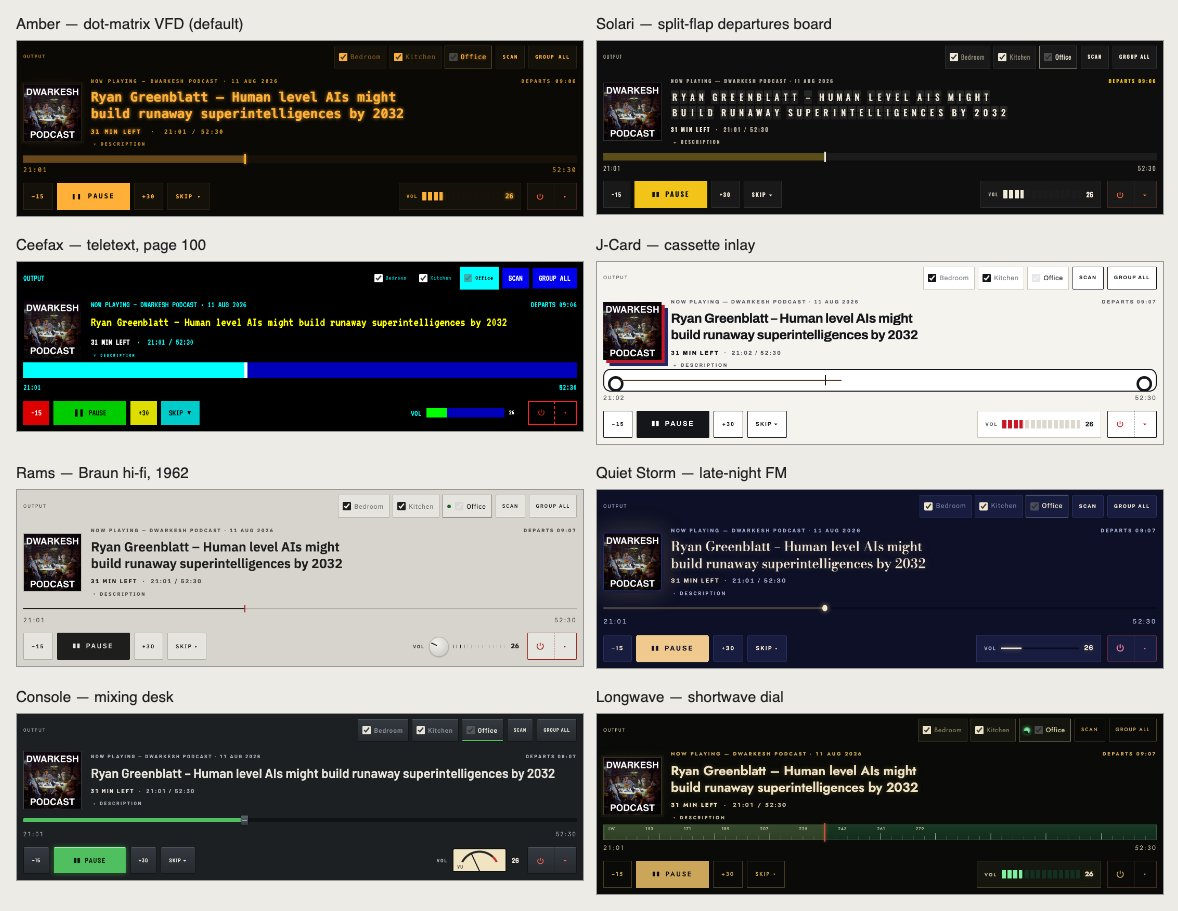
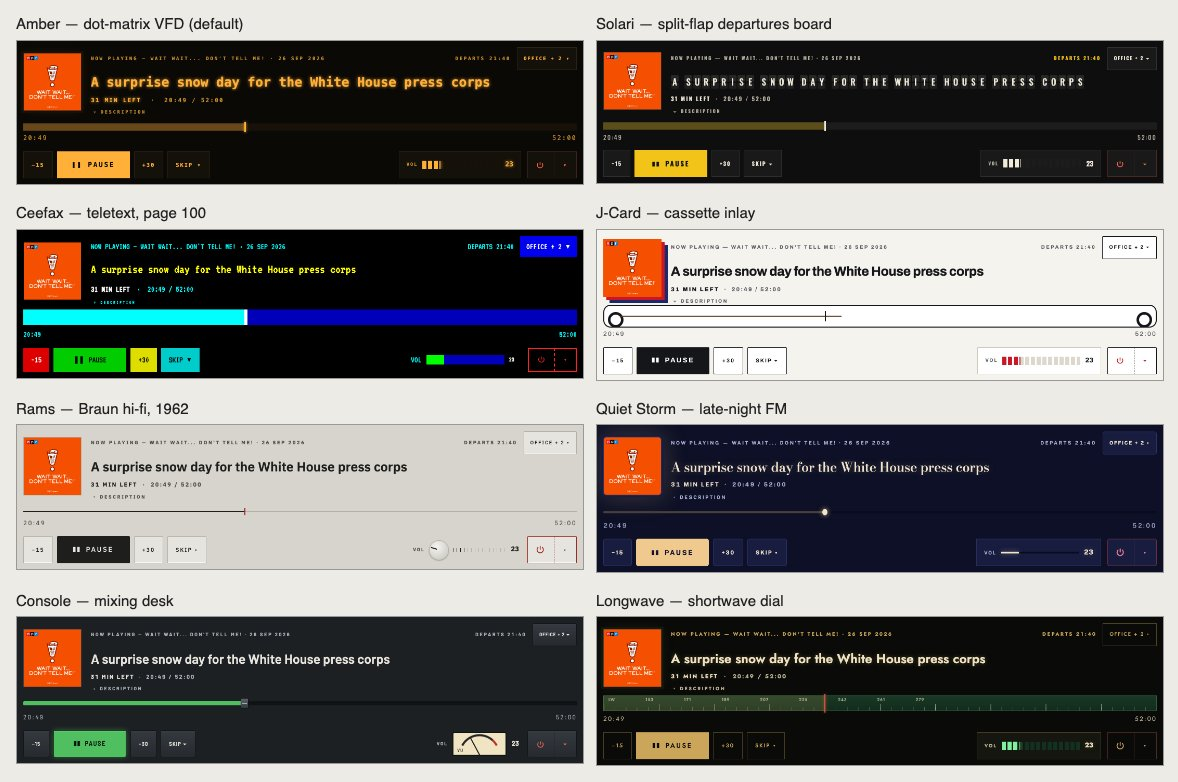
docs: refresh screenshots for the rooms chip, row menus, and wrapped shelves
The theme strip clipped from the output row, which the rooms chip
replaced; tools/screenshot.py now clips from the deck.

diff --git a/tools/screenshot.py b/tools/screenshot.py
@@ -116,9 +116,9 @@ def shoot_pages(browser: Browser, base: str) -> None:
 
 
 def deck_clip(page: Page) -> dict[str, float]:
-    """The output row down through the transport, with a little margin that
-    stops short of the header (Ceefax paints it as a band)."""
-    top = page.locator(".output").bounding_box()
+    """The deck down through the transport, with a little margin that stops
+    short of the header (Ceefax paints it as a band)."""
+    top = page.locator(".deck").bounding_box()
     bottom = page.locator(".transport").bounding_box()
     header = page.locator("header").bounding_box()
     pad = 12
